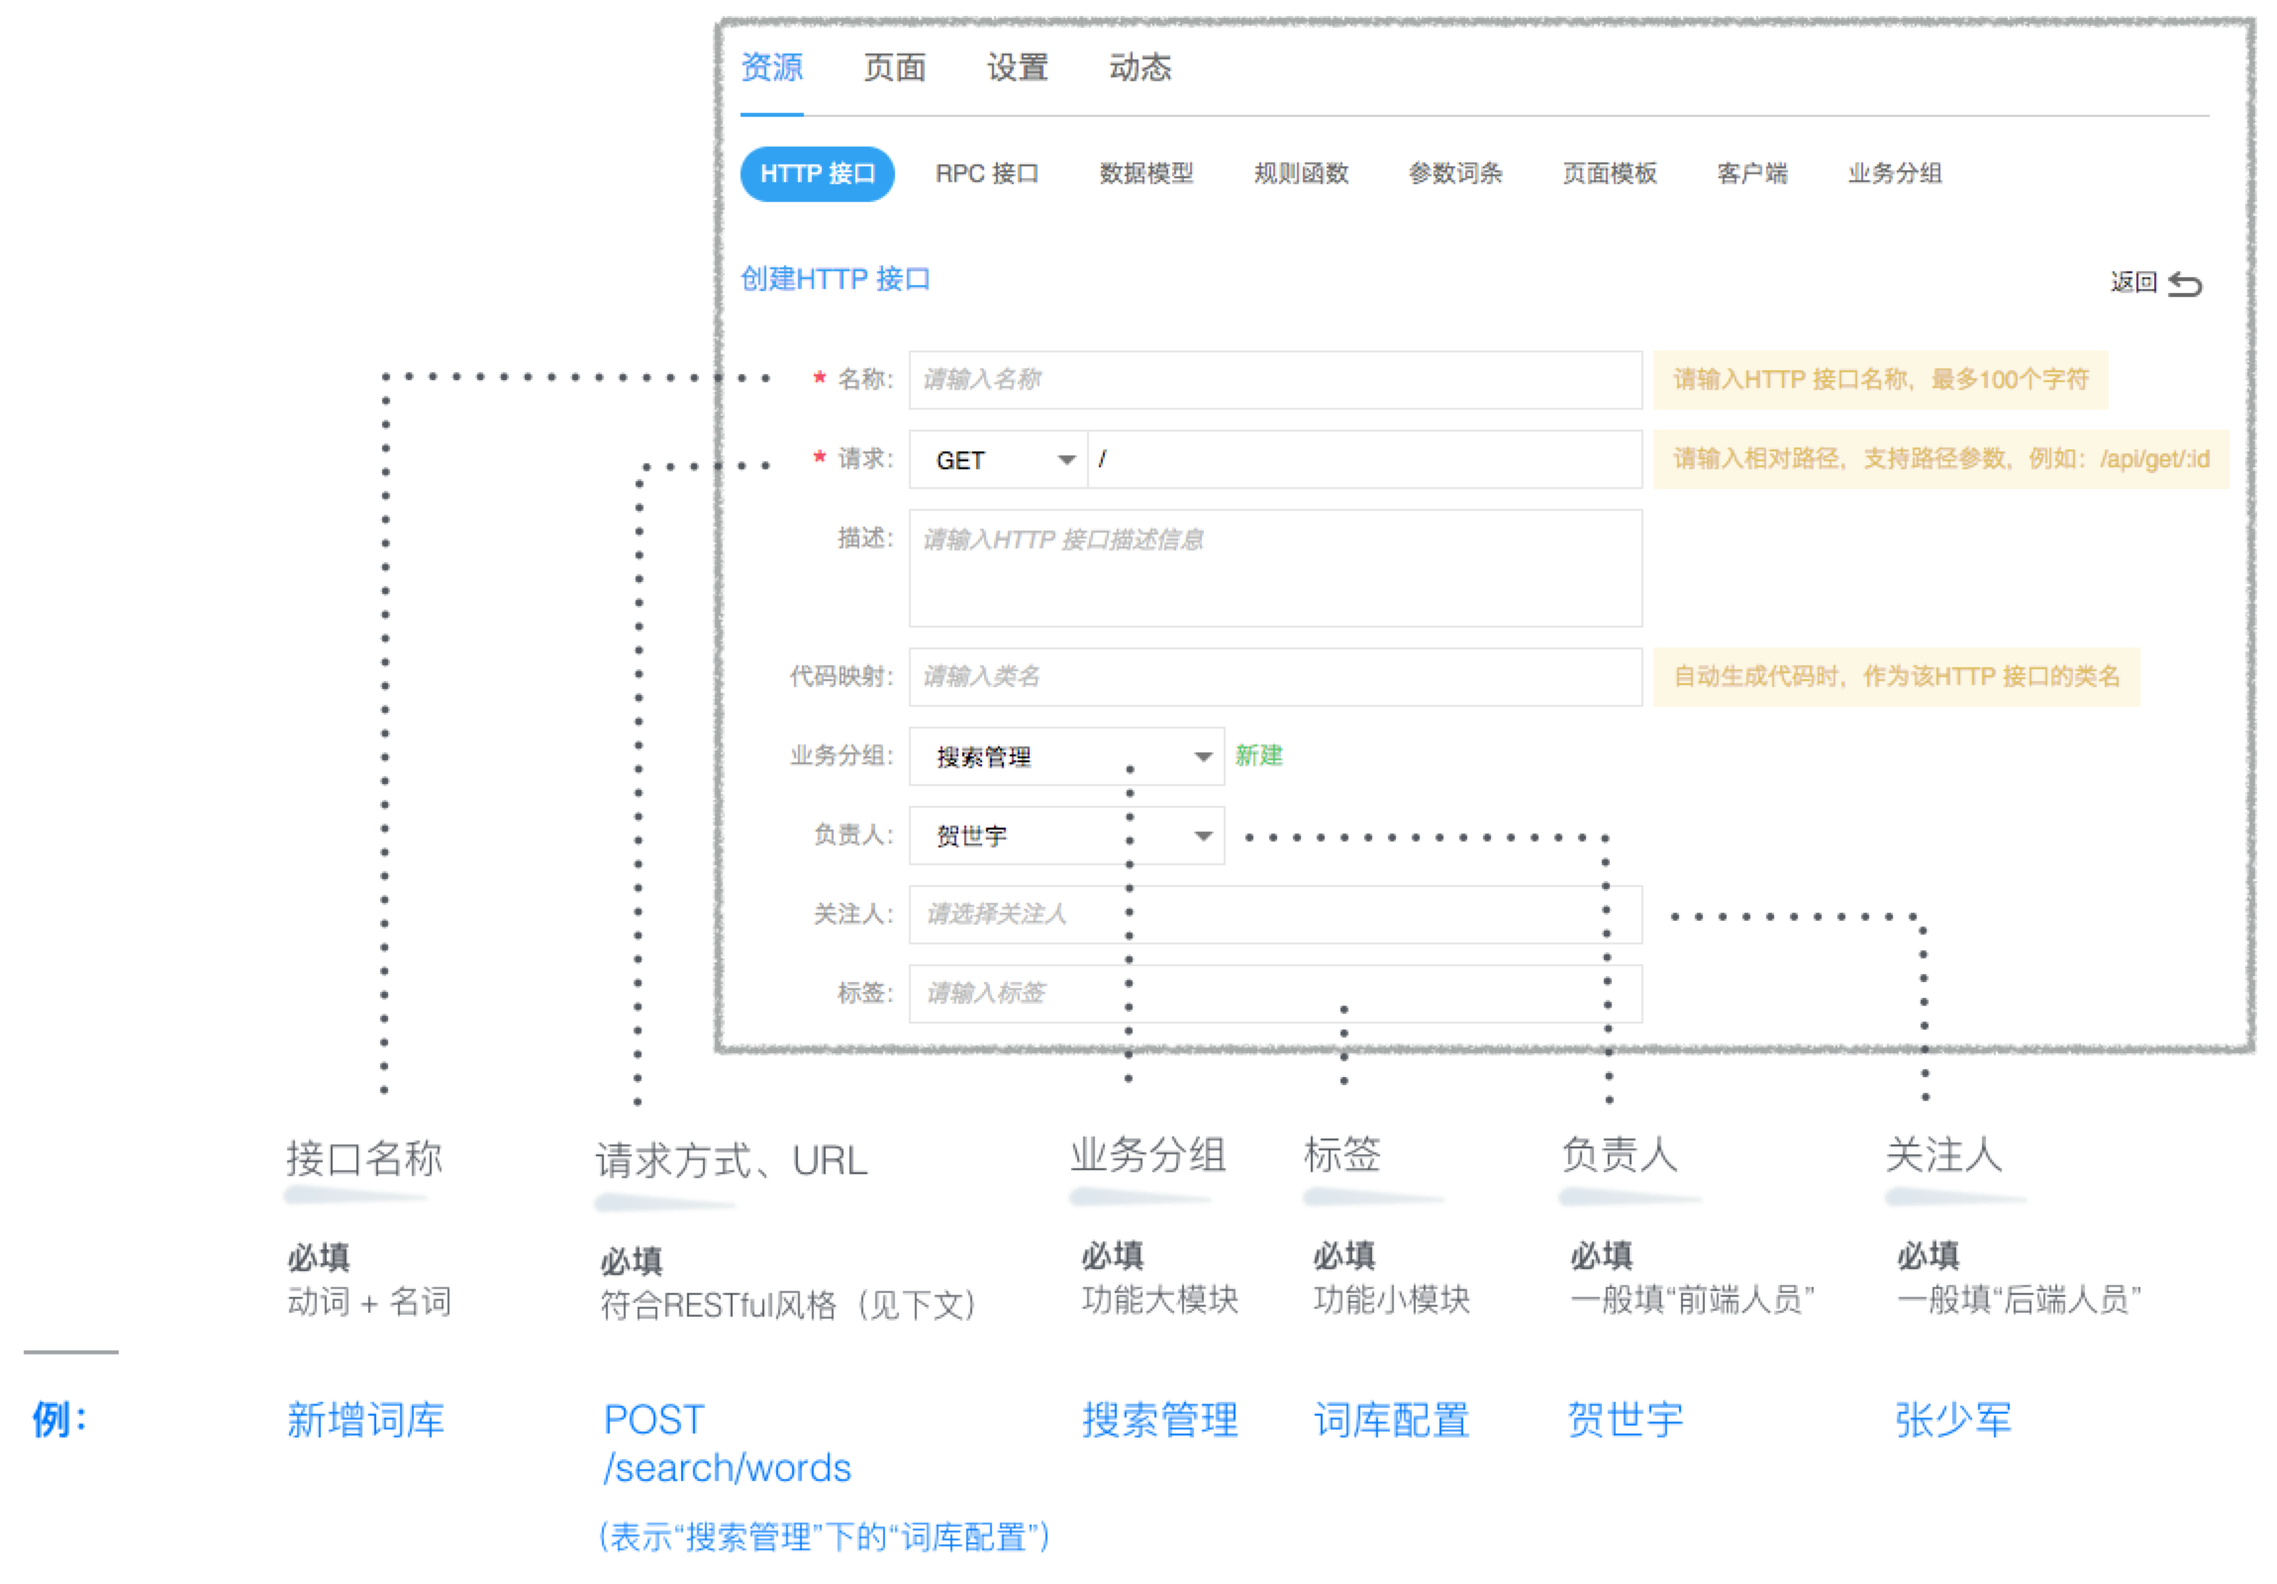
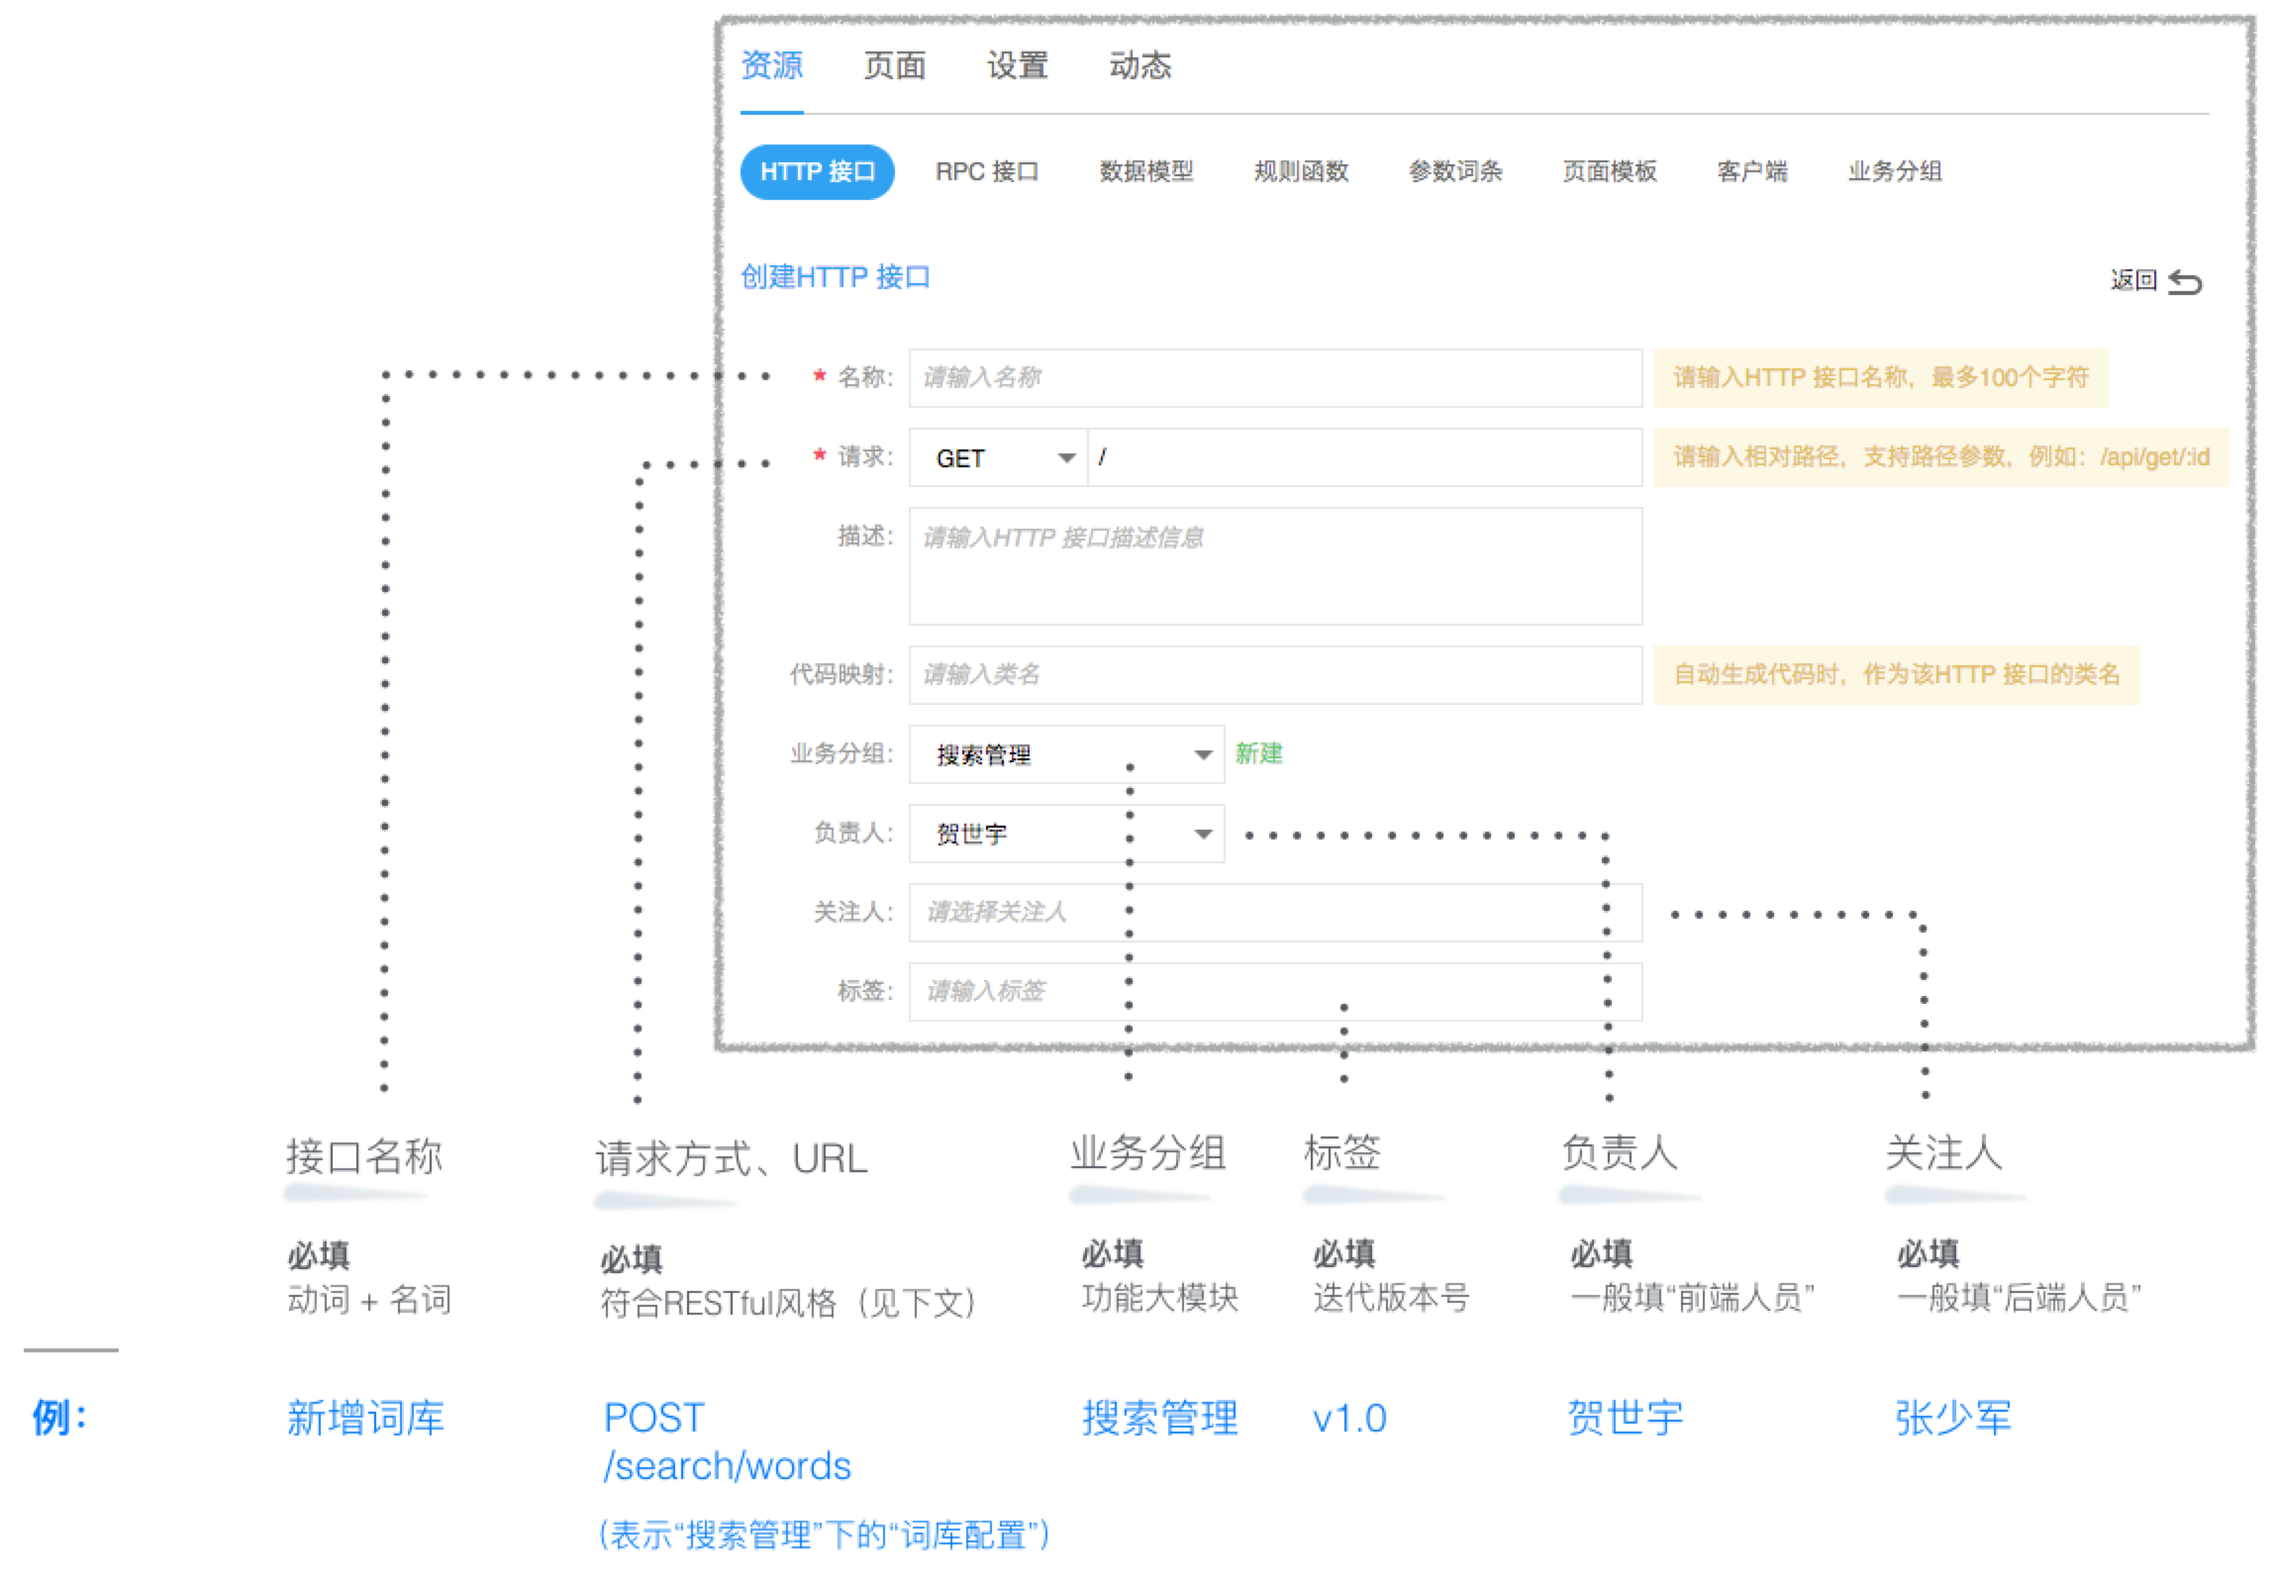
update: interface

diff --git a/docs/standard/interface/README.md b/docs/standard/interface/README.md
@@ -23,6 +23,8 @@ tags:
 | 接口平台 | [NEI](https://nei.netease.com/project?pid=51981) | [GoTest](https://gotest.hz.netease.com/web/#/home/project/api?projectId=175)仅作接口测试使用 |
 | 约定内容 | 接口的基本属性、请求/响应信息 | 后端主导，前端填写 |
 
+**建议：从新项目（2020年Q1起）开始，需要产品明确此次迭代的版本号，而不仅仅是上线日期（供接口打标签使用）。**
+
 ### “约定内容”详细说明
 #### 接口的基本属性
 | 接口字段 | 说明 | 示例 |
@@ -30,7 +32,7 @@ tags:
 | 接口名称 | 必填。动词 + 名词 | 新增词库|
 | 请求方式、URL | 必填。符合RESTful风格（见下文） | POST /search/words |
 | 业务分组 | 必填。功能大模块 | 搜索管理 |
-| 标签 | 必填。功能小模块 | 词库配置 |
+| 标签 | 必填。迭代版本号 | v1.0 |
 | 负责人 | 必填。一般填“前端人员” | 贺世宇 |
 | 关注人 | 必填。一般填“后端人员” | 张少军 |
 
@@ -49,7 +51,44 @@ tags:
 ![alt](./img/interface-3.png)
 
 ## ② RESTful API规范
+### 基本特点
+前后端接口应当统一约定为**RESTful API**。
 
+> **REST（Representational State Transfer，表现层状态转化）**，是一种设计风格。
+>
+> 符合REST设计风格的Web API可称为RESTful API。
+>
+> Representational：“资源”的呈现形式
+> State Transfer：服务器中的数据（或状态）的变化
+ 
+
+综上，**RESTful API**的特点：
+
+    1、简短、层级关系直观的资源URI； 
+
+    2、资源呈现形式；（如：JSON、二进制、JPG、HTML等） 
+
+    3、对资源的操作（4种：GET、POST、PUT、DELETE）
+
+### 使用示例
+| 接口名称 | 请求方式 | URI |
+| ----- |:---:|:---:|
+| 以“班级”为资源 |  |  |
+| 获取班级列表 | GET | 分页：/class；不分页：/class/list |
+| 查询班级信息 | GET | /class/:id |
+| 新建班级	 | POST | /class |
+| 编辑班级 | PUT | /class/:id |
+| 删除班级 | DELETE | /class/:id |
+| 以“学生”为资源 |  |  |
+| 查询学生信息 | GET | /class/:classID/student/:studentID |
+
+如果觉得以上不够用，下面作为补充：
+| 接口名称 | 请求方式 | URI |
+| ----- |:---:|:---:|
+| 批量删除班级 | DELETE | /class（idList放请求参数） |
+| 批量修改班级状态 | PUT | /class/status（idList放请求参数） |
+
+注意：GET请求不能用body参数；POST/PUT/DELETE请求不能用param参数
 
 ## ③ [前端] 接口Mock
 在之后的新项目开发中，前端可直接通过NEI生成Mock数据，无需专门维护，更加方便快捷！
